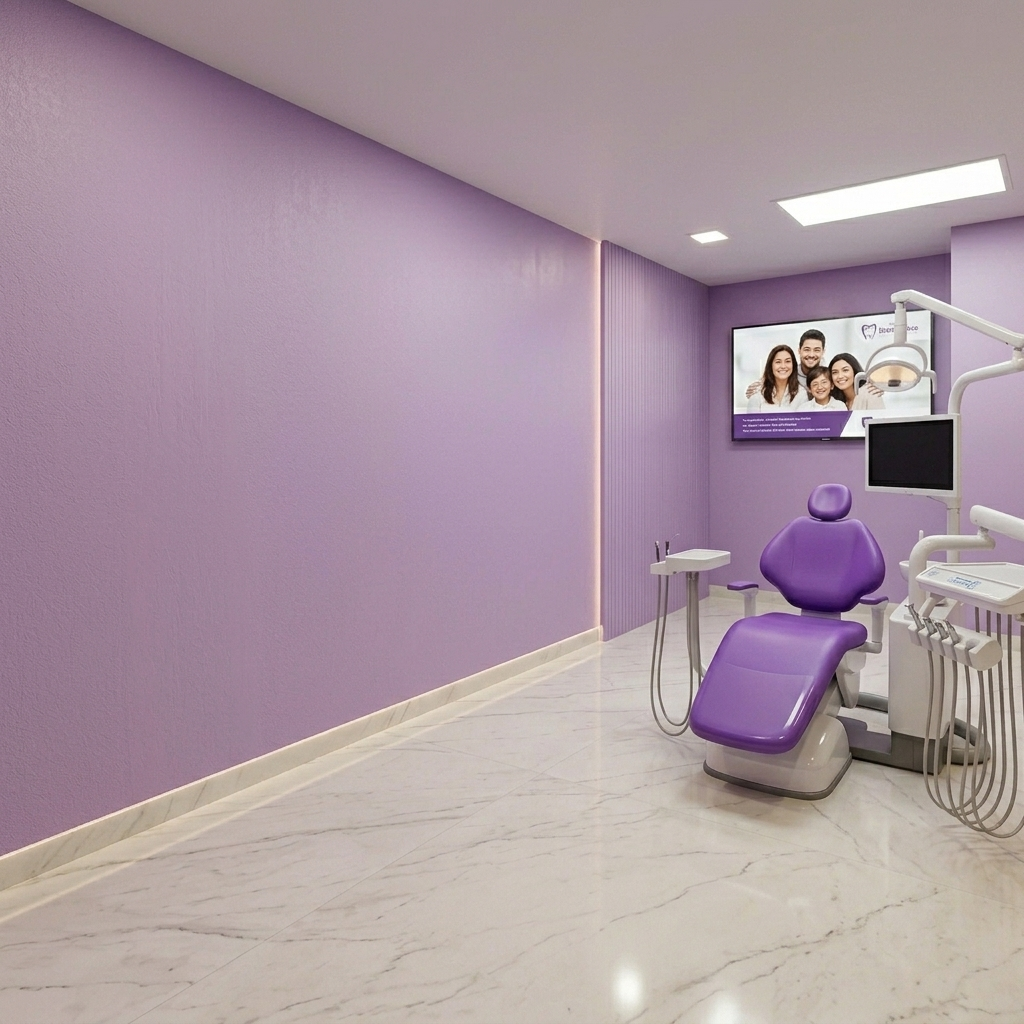
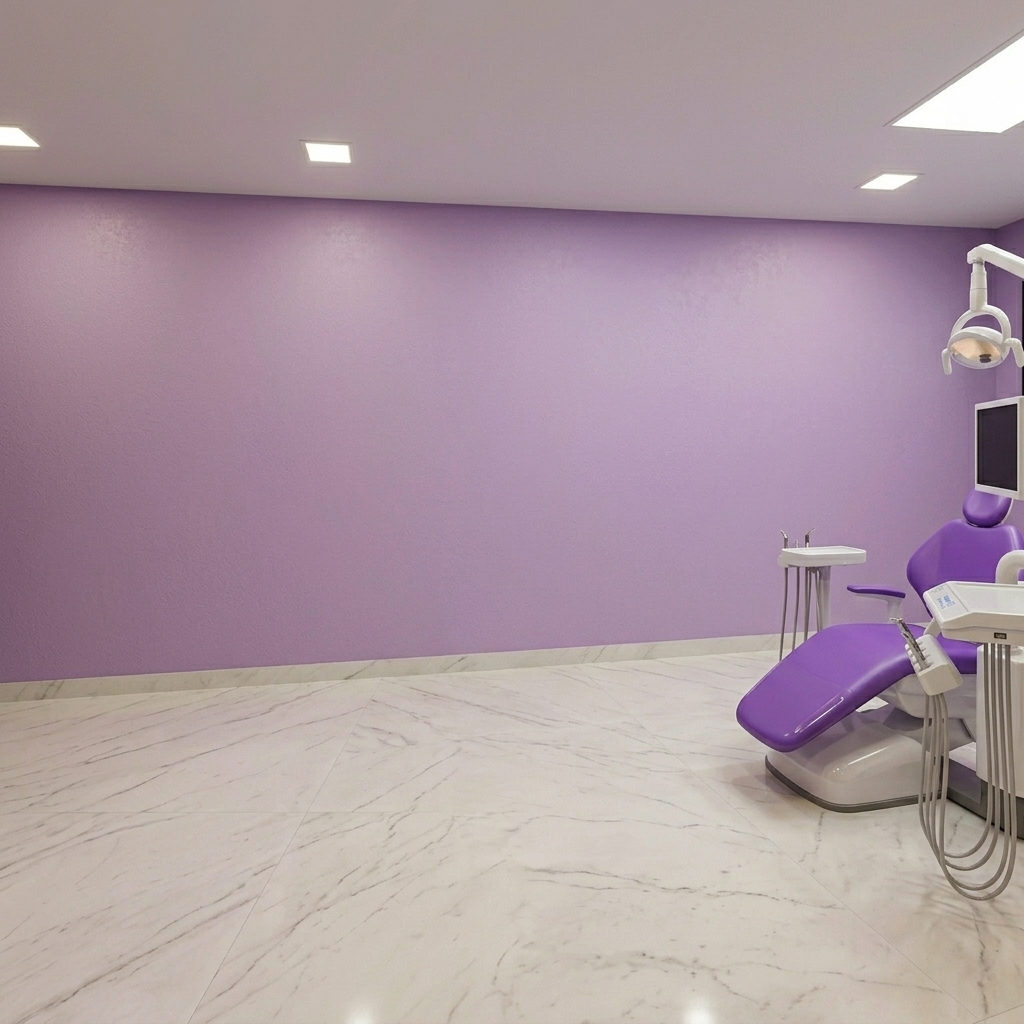
Finalize hero alignment with spacious left negative space and right-aligned subject.

diff --git a/src/index.css b/src/index.css
@@ -4122,23 +4122,23 @@ h3 {
   z-index: 0;
 }
 
+/* Clean, right-aligned image position */
 .hero-ph-bg-img {
   width: 100%;
   height: 100%;
   object-fit: cover;
-  object-position: 100% center; /* Push image completely to right edge */
+  object-position: right center; 
   display: block;
 }
 
-/* Updated premium purple gradient overlay - expanded left side fill */
+/* Subtle gradient to blend text with the new spacious background */
 .hero-ph-bg-overlay {
   position: absolute;
   inset: 0;
   background: linear-gradient(
     to right,
-    rgba(26, 11, 46, 1) 0%,      /* Solid deep purple *///
-    rgba(26, 11, 46, 0.95) 45%,  /* Solid till almost middle */
-    rgba(26, 11, 46, 0.4) 75%,   /* Fade into image */
+    rgba(26, 11, 46, 0.75) 0%,   /* Semi-solid on far left for contrast */
+    rgba(26, 11, 46, 0.3) 40%,   /* Rapidly fade to show the clean wall */
     transparent 100%
   );
 }
